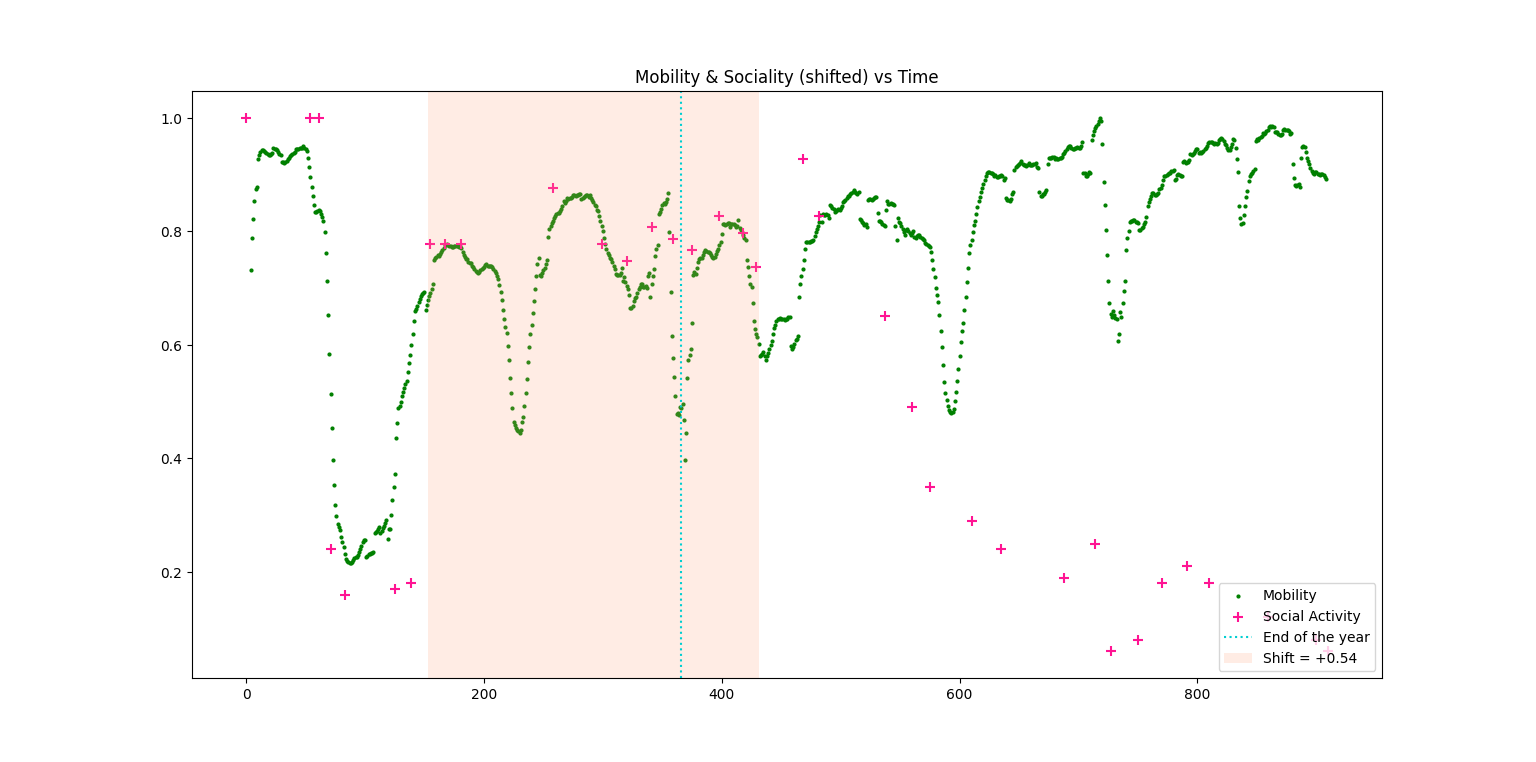
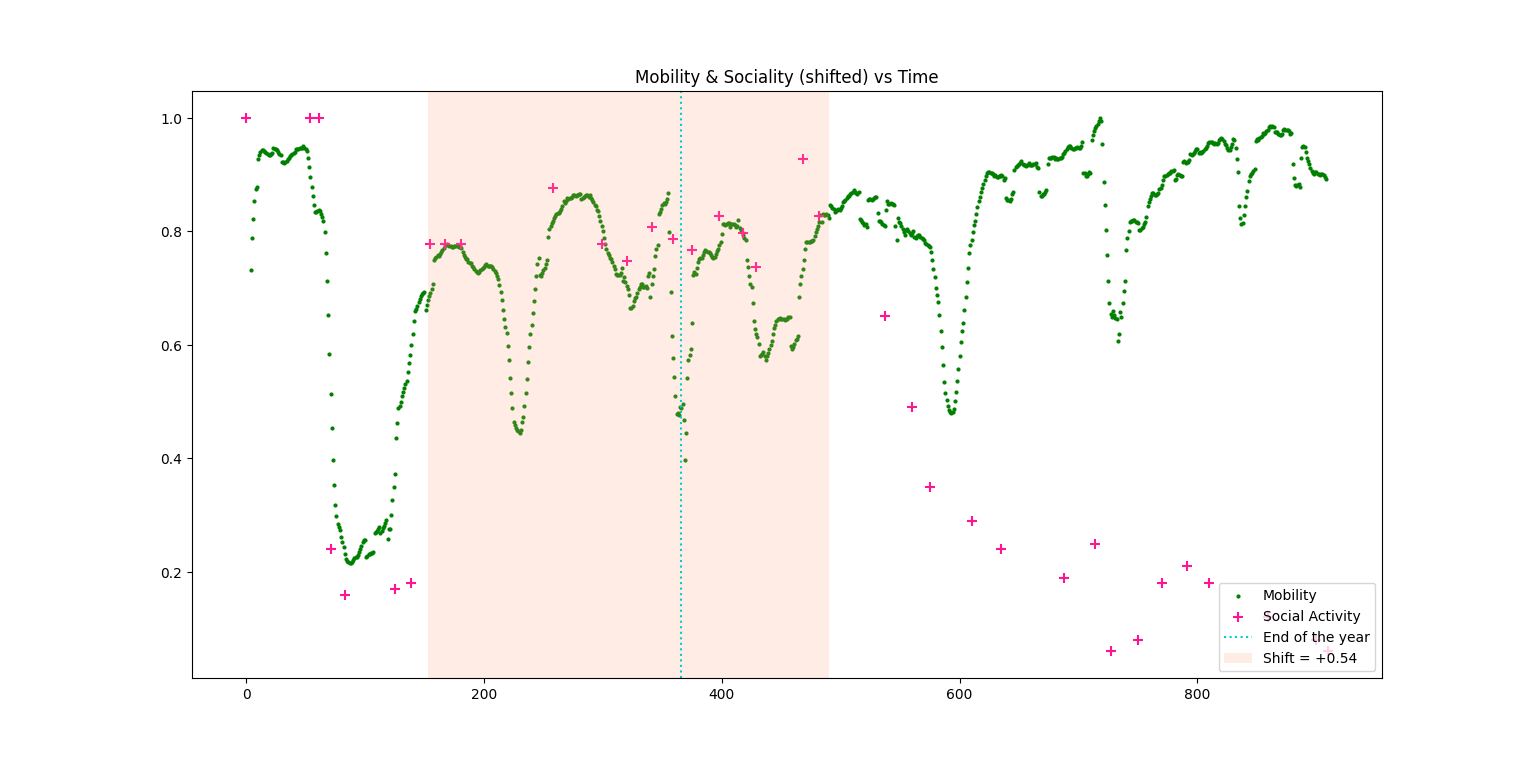
fixed visualization of the shift_1

Changed region(s): [[0.4688, 0.1207, 0.5625, 0.9055]]

diff --git a/getmobility.py b/getmobility.py
@@ -3,6 +3,7 @@ The purpose of this code is to implement a function useful to export a np.array 
 
 """
 
+from operator import index
 import pandas as pd
 import numpy as np
 
@@ -19,13 +20,13 @@ def get_mobility(url):
 
     '''
 
-    if '2021' in url:
+    if '2020' in url:
+        df = pd.read_csv(url)
+        days = np.arange(1, 367)
+    else:
         df = pd.read_csv(url, sep = ';')
         days = np.arange(1, 365)
         
-    else:
-        df = pd.read_csv(url)
-        days = np.arange(1, 367)
 
     col_list= ['0000 0100', '0100 0200', '0200 0300', "0300 0400" , "0400 0500" , "0500 0600" , "0600 0700" , "0700 0800" , "0800 0900" , "0900 1000" , "1000 1100" , "1100 1200" , "1200 1300" , "1300 1400" , "1400 1500" , "1500 1600" , "1600 1700" , "1700 1800" , "1800 1900" , "1900 2000" , "2000 2100" , "2100 2200" , "2200 2300" , "2300 2400"] 
 
@@ -46,15 +47,24 @@ def get_mobility(url):
     lastElementIndex = len(total_mobility)-1
     total_mobility = total_mobility[:lastElementIndex]
 
-    smoothed_total = total_mobility.rolling(7, center=True).mean() #rolling mean
-    mobility = smoothed_total/smoothed_total.max() #normalization
-    mobility = mobility.to_numpy()
 
+    smoothed_total = total_mobility.rolling(7, center=True).mean() #rolling mean
+
+    # Rolling mean outputs 7 NaN value as first and last element of the array. Let's clean this.
+    smoothed_total = smoothed_total.to_numpy()
+    index_of_nan = np.argwhere(np.isnan(smoothed_total))
+    smoothed_total = np.delete(smoothed_total,index_of_nan) #removing NaN values from the array
+    days = np.delete(days, index_of_nan) # deleting days associated with NaN values
+    
+    mobility = smoothed_total/smoothed_total.max() #normalization
 
     days = np.append(days, np.inf) # added inf as last element.
     mobility = np.append(mobility, mobility[-1]) #added last element to the mobility array, since mobility and days must be the same size
+    number_of_nan = np.count_nonzero(np.isnan(mobility))
+    print("Il numero di NaN nell'array mobility è " + str(number_of_nan))
 
     m = (days, mobility) 
     
     return m
+
 
